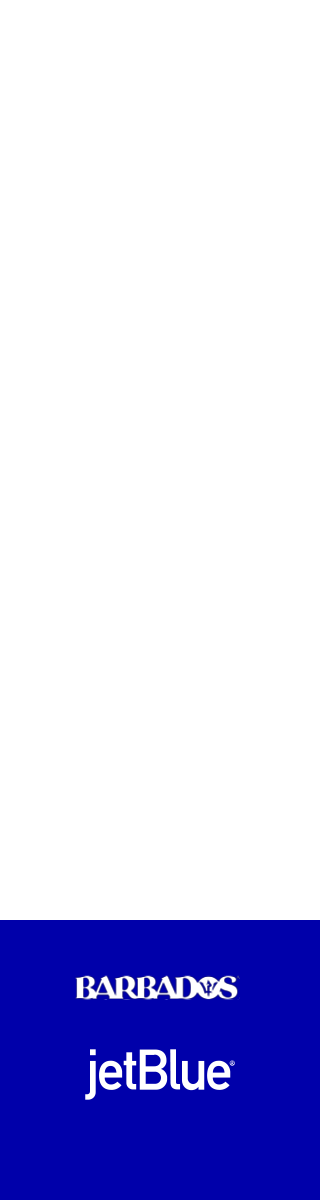
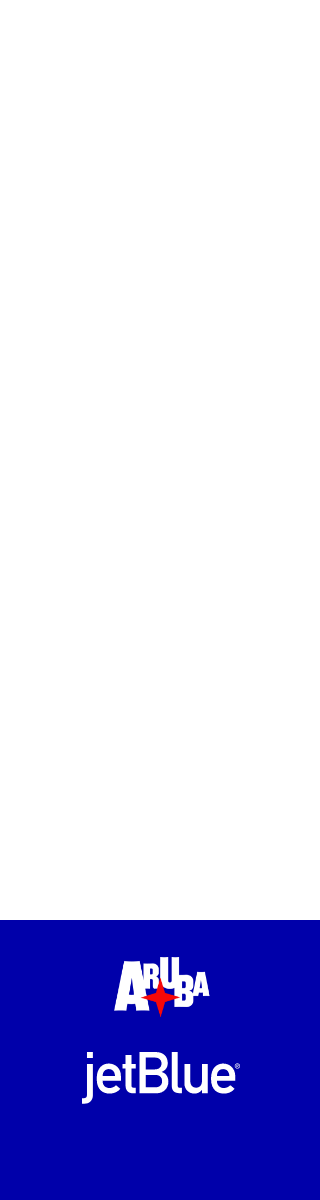
Route 2 updated

Changed region(s): [[0.2188, 0.7708, 0.75, 0.925]]

diff --git a/JetBlue_Caribbean_Vacation_route2/richLoads/CA_Vacation_R2_728x90_RL2/mainRL2.js b/JetBlue_Caribbean_Vacation_route2/richLoads/CA_Vacation_R2_728x90_RL2/mainRL2.js
@@ -82,7 +82,7 @@ function setupContent() {
     h4[0].innerHTML = ""; // - Populates main headline
 
  h4[0].innerHTML +=
- "<span class='sm blue'>Nonstop flights from </span><br><span class='blue city'>" + "NYC" + "</span> <span class='blue to'>to</span> <span class='blue city'>" + "Barbados" + "</span>";
+ "<span class='sm blue'>Nonstop flights from </span><br><span class='blue city'>" + "NYC" + "</span> <span class='blue to'>to</span> <span class='blue city'>" + "Aruba (AUA)" + "</span>";
 
    //   h4[0].innerHTML +=
    // "<span class='sm blue'>Nonstop flights from </span><br><span class='blue city'>" + origin_formatted + "</span> <span class='blue to'>to</span><br><span class='blue city'>" + destination_formatted + "</span>";

diff --git a/JetBlue_Caribbean_Vacation_route2/richLoads/CA_Vacation_R2_300x250_RL1/index.html b/JetBlue_Caribbean_Vacation_route2/richLoads/CA_Vacation_R2_300x250_RL1/index.html
@@ -36,8 +36,8 @@
         <img src="./images/bottomPanel.png" id="bottomPanel" class="retina" />
 
         <div id="text_holder">
-            <div id="h1" class="hidden">Visit the largest national<br>park in the Caribbean…</div>
-            <div id="h2" class="hidden">it’s worth the hike.</div>
+            <div id="h1" class="hidden">Book a vacay…</div>
+            <div id="h2" class="hidden">where the summer<br>never fades away. </div>
           <!-- <div id="terms1" class="hidden terms"><span class="asterisk">&ast;</span>Based on the avg. fleet wide seat pitch of U.S. airlines.<br/></div> -->
           <div id="termsCopyright" class="terms">&copy; 2023 JetBlue Airways Corporation. All rights reserved.</div>
 

diff --git a/JetBlue_Caribbean_Vacation_route2/richLoads/CA_Vacation_R2_160x600_RL2/mainRL2.js b/JetBlue_Caribbean_Vacation_route2/richLoads/CA_Vacation_R2_160x600_RL2/mainRL2.js
@@ -68,7 +68,7 @@ function setupContent(feed) {
 
 
    h4[0].innerHTML +=
- "<span class='sm blue'>Nonstop flights from </span><br><span class='blue city'>" + "NYC" + "</span> <span class='blue to'>to<br></span> <span class='blue city'>" + "Barbados" + "</span>";
+ "<span class='sm blue'>Nonstop flights from </span><br><span class='blue city'>" + "NYC" + "</span> <span class='blue to'>to<br></span> <span class='blue city'>" + "Aruba (AUA)" + "</span>";
     
    //   h4[0].innerHTML +=
    // "<span class='sm blue'>Nonstop flights from </span><br><span class='blue city'>" + origin_formatted + "</span> <span class='blue to'>to<br></span> <span class='blue city'>" + destination_formatted + "</span>";

diff --git a/JetBlue_Caribbean_Vacation_route2/richLoads/CA_Vacation_R2_728x90_RL1/index.html b/JetBlue_Caribbean_Vacation_route2/richLoads/CA_Vacation_R2_728x90_RL1/index.html
@@ -37,8 +37,8 @@
         <img src="./images/bottomPanel.png" id="bottomPanel" class="retina" />
 
         <div id="text_holder">
-            <div id="h1" class="hidden">Visit the largest national<br>park in the Caribbean…</div>
-            <div id="h2" class="hidden">it’s worth the hike.</div>
+            <div id="h1" class="hidden">Book a vacay…</div>
+            <div id="h2" class="hidden">where the summer never fades away. </div>
           <div id="termsCopyrightHolder"><div id="termsCopyright" class="terms">&copy; 2023 JetBlue Airways Corporation. All rights reserved.</div>
 <!--           <div id="logoHolder">
             <img id="logo" src="./images/logo.svg" class="" />

diff --git a/JetBlue_Caribbean_Vacation_route2/richLoads/CA_Vacation_R2_300x250_RL2/mainRL2.js b/JetBlue_Caribbean_Vacation_route2/richLoads/CA_Vacation_R2_300x250_RL2/mainRL2.js
@@ -129,7 +129,7 @@ function setupContent() {
 
 
        h4[0].innerHTML +=
- "<span class='sm blue'>Nonstop flights from </span><br><span class='blue city'>" + "NYC" + "</span> <span class='blue to'>to</span> <span class='blue city'>" + "Barbados" + "</span>";
+ "<span class='sm blue'>Nonstop flights from </span><br><span class='blue city'>" + "NYC" + "</span> <span class='blue to'>to</span> <span class='blue city'>" + "Aruba (AUA)" + "</span>";
 
    //       h4[0].innerHTML +=
    // "<span class='sm blue'>Nonstop flights from </span><br><span class='blue city'>" + origin_formatted + "</span> <span class='blue to'>to</span> <span class='blue city'>" + destination_formatted + "</span>";

diff --git a/JetBlue_Caribbean_Vacation_route2/richLoads/CA_Vacation_R2_300x600_RL1/index.html b/JetBlue_Caribbean_Vacation_route2/richLoads/CA_Vacation_R2_300x600_RL1/index.html
@@ -38,8 +38,8 @@
         <img src="./images/bottomPanel.png" id="bottomPanel" class="retina" />
 
         <div id="text_holder">
-            <div id="h1" class="hidden">Visit the largest<br>national park in<br>the Caribbean…</div>
-            <div id="h2" class="hidden">it’s worth<br>the hike.</div>
+            <div id="h1" class="hidden">Book a vacay…</div>
+            <div id="h2" class="hidden">where the<br>summer never<br>fades away. </div>
           <div id="termsCopyright" class="terms">&copy; 2023 JetBlue Airways Corporation. All rights reserved.</div>
 <!--           <div id="logoHolder">
             <img id="logo" src="./images/logo.svg" class="" />

diff --git a/JetBlue_Caribbean_Vacation_route2/richLoads/CA_Vacation_R2_300x600_RL2/mainRL2.js b/JetBlue_Caribbean_Vacation_route2/richLoads/CA_Vacation_R2_300x600_RL2/mainRL2.js
@@ -67,7 +67,7 @@ function setupContent() {
 
 
 h4[0].innerHTML +=
- "<span class='sm blue'>Nonstop flights from </span><br><span class='blue city'>" + "NYC" + "</span> <span class='blue to'>to</span> <span class='blue city'>" + "Barbados" + "</span>";
+ "<span class='sm blue'>Nonstop flights from </span><br><span class='blue city'>" + "NYC" + "</span> <span class='blue to'>to</span> <span class='blue city'>" + "Aruba (AUA)" + "</span>";
 
    // h4[0].innerHTML +=
    // h4[0].innerHTML +=

diff --git a/JetBlue_Caribbean_Vacation_route2/richLoads/CA_Vacation_R2_300x250_RL2/index.html b/JetBlue_Caribbean_Vacation_route2/richLoads/CA_Vacation_R2_300x250_RL2/index.html
@@ -29,7 +29,7 @@
               <span id="starting_at" class="starting_at blue">Starting at</span>
               <div id="price" class="">
                 <div id="dollar" class="dollar blue">$</div>
-                <div id="priceText" class="number blue">44</div>
+                <div id="priceText" class="number blue">xxx</div>
                 <div id="one_way" class="one_way blue">one way<sup class="asterisk">&ast;</sup></div>
               </div>
             </div>

diff --git a/JetBlue_Caribbean_Vacation_route2/base/CA_Vacation_R2_baseload_160x600/index.html b/JetBlue_Caribbean_Vacation_route2/base/CA_Vacation_R2_baseload_160x600/index.html
@@ -88,7 +88,7 @@
 		var theFeed,
 			theFeedUrl,
 			RL1_holder=myFT.$('#RL1_holder'),
-			// RL2_holder=myFT.$('#RL2_holder'),
+			RL2_holder=myFT.$('#RL2_holder'),
 			border=myFT.$('#border'),
 			isFeedLoaded=false,
 			RL1_loaded=false,

diff --git a/JetBlue_Caribbean_Vacation_route2/base/CA_Vacation_R2_baseload_300x250/index.html b/JetBlue_Caribbean_Vacation_route2/base/CA_Vacation_R2_baseload_300x250/index.html
@@ -88,7 +88,7 @@
 		var theFeed,
 			theFeedUrl,
 			RL1_holder=myFT.$('#RL1_holder'),
-			// RL2_holder=myFT.$('#RL2_holder'),
+			RL2_holder=myFT.$('#RL2_holder'),
 			border=myFT.$('#border'),
 			isFeedLoaded=false,
 			RL1_loaded=false,

diff --git a/JetBlue_Caribbean_Vacation_route2/base/CA_Vacation_R2_baseload_300x600/index.html b/JetBlue_Caribbean_Vacation_route2/base/CA_Vacation_R2_baseload_300x600/index.html
@@ -88,7 +88,7 @@
 		var theFeed,
 			theFeedUrl,
 			RL1_holder=myFT.$('#RL1_holder'),
-			// RL2_holder=myFT.$('#RL2_holder'),
+			RL2_holder=myFT.$('#RL2_holder'),
 			border=myFT.$('#border'),
 			isFeedLoaded=false,
 			RL1_loaded=false,

diff --git a/JetBlue_Caribbean_Vacation_route2/base/CA_Vacation_R2_baseload_728x90/index.html b/JetBlue_Caribbean_Vacation_route2/base/CA_Vacation_R2_baseload_728x90/index.html
@@ -88,7 +88,7 @@
 		var theFeed,
 			theFeedUrl,
 			RL1_holder=myFT.$('#RL1_holder'),
-			// RL2_holder=myFT.$('#RL2_holder'),
+			RL2_holder=myFT.$('#RL2_holder'),
 			border=myFT.$('#border'),
 			isFeedLoaded=false,
 			RL1_loaded=false,
